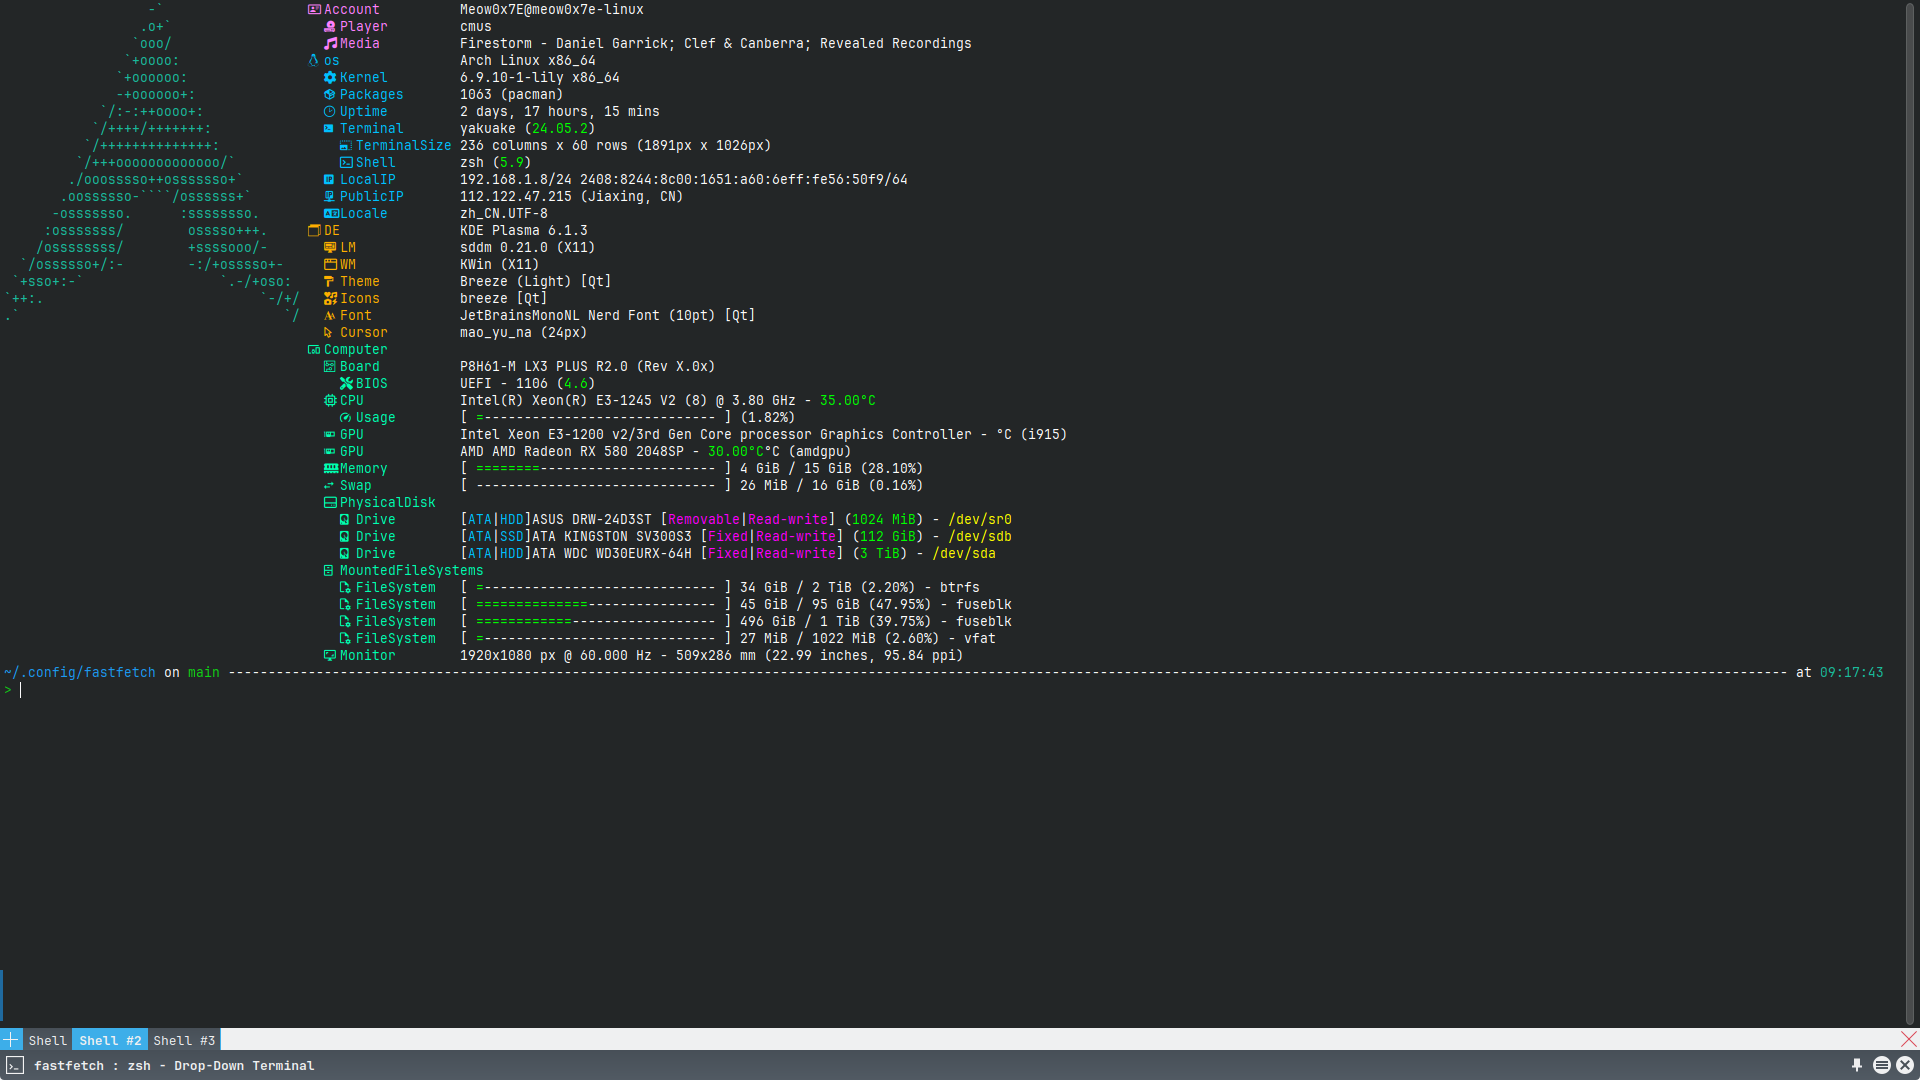
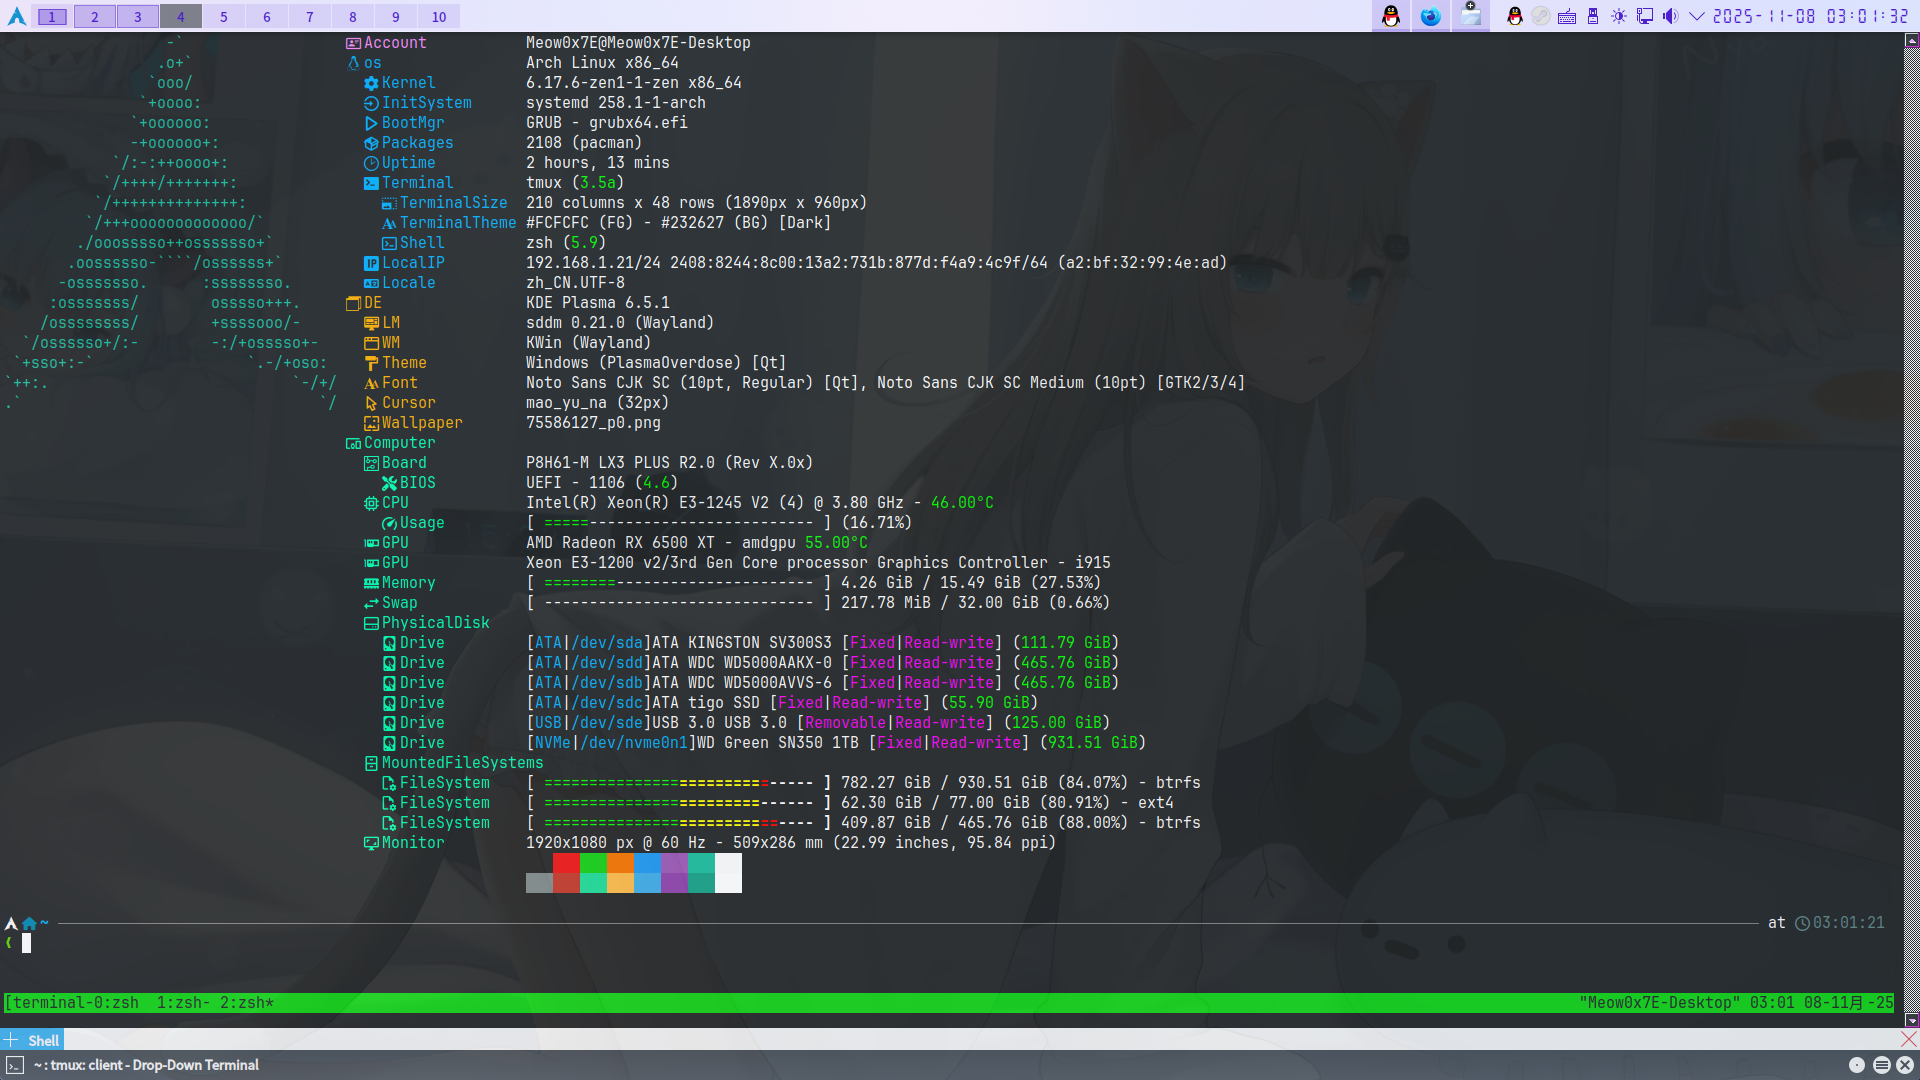
删除了误添加的文件，添加了 .gitignore 预防以后又忘，更新了 preview 图片
添加了一个 ShellCode 到注释中，探测终端宽度来决定 logo 位置，用户可以自行加入 rc 中

diff --git a/README.md b/README.md
@@ -1,15 +1,31 @@
-# config-nvim
+# config-fastfetch
 
-一个简单的 [fastfetch][1] 配置文件，可以让你的 [fastfetch][1] 更加花哨。
+[zh_CN](README-zh_CN.md)|[en_US](README.md)
 
-预览:
+> [!NOTE]
+> This translation was generated by AI.
+
+A sleek configuration file to make your terminal more stylish and colorful.
+
+## Preview
+
 ![Preview](doc/preview.png)
 
-# 使用方式
+## Installation
 
-- 手动下载 [config.jsonc](blob/main/config.jsonc)，并将其放到 `~/.config/fastfetch` 目录下。
-- 直接 clone 这个仓库
+You can set up the configuration using either of the following methods
+
+### Manual Download
+
+1. Download [config.jsonc](config.jsonc)
+2. Place it in the `$HOME/.config/fastfetch` directory.
+
+### Run Command
+
+Execute the following command to apply the configuration automatically
+
 ```bash
-git clone https://github.com/Meow0x7E/config-fastfetch ~/.config/fastfetch
+[[ -d "$HOME/.config/fastfetch" ]] || mkdir "$HOME/.config/fastfetch"
+curl -L -S -s -O --output-dir "$HOME/.config/fastfetch" https://raw.githubusercontent.com/Meow0x7E/config-fastfetch/main/config.jsonc
 ```
-[1]: https://github.com/fastfetch-cli/fastfetch
+

diff --git a/README-zh_CN.md b/README-zh_CN.md
@@ -1,0 +1,29 @@
+# config-fastfetch
+
+[zh_CN](README-zh_CN.md)|[en_US](README.md)
+
+一个简单的 [fastfetch][1] 配置文件，可以让你的 [fastfetch][1] 更加花哨。
+
+## 预览
+
+![Preview](doc/preview.png)
+
+## 使用方式
+
+选择以下任一方式即可完成配置
+
+### 手动下载
+
+1. 下载 [config.jsonc](config.jsonc)
+2. 将其放到 `$HOME/.config/fastfetch` 目录下。
+
+### 运行命令
+
+运行以下命令即可应用配置
+
+```bash
+[[ -d "$HOME/.config/fastfetch" ]] || mkdir "$HOME/.config/fastfetch"
+curl -L -S -s -O --output-dir "$HOME/.config/fastfetch" https://raw.githubusercontent.com/Meow0x7E/config-fastfetch/main/config.jsonc
+```
+
+[1]: https://github.com/fastfetch-cli/fastfetch
